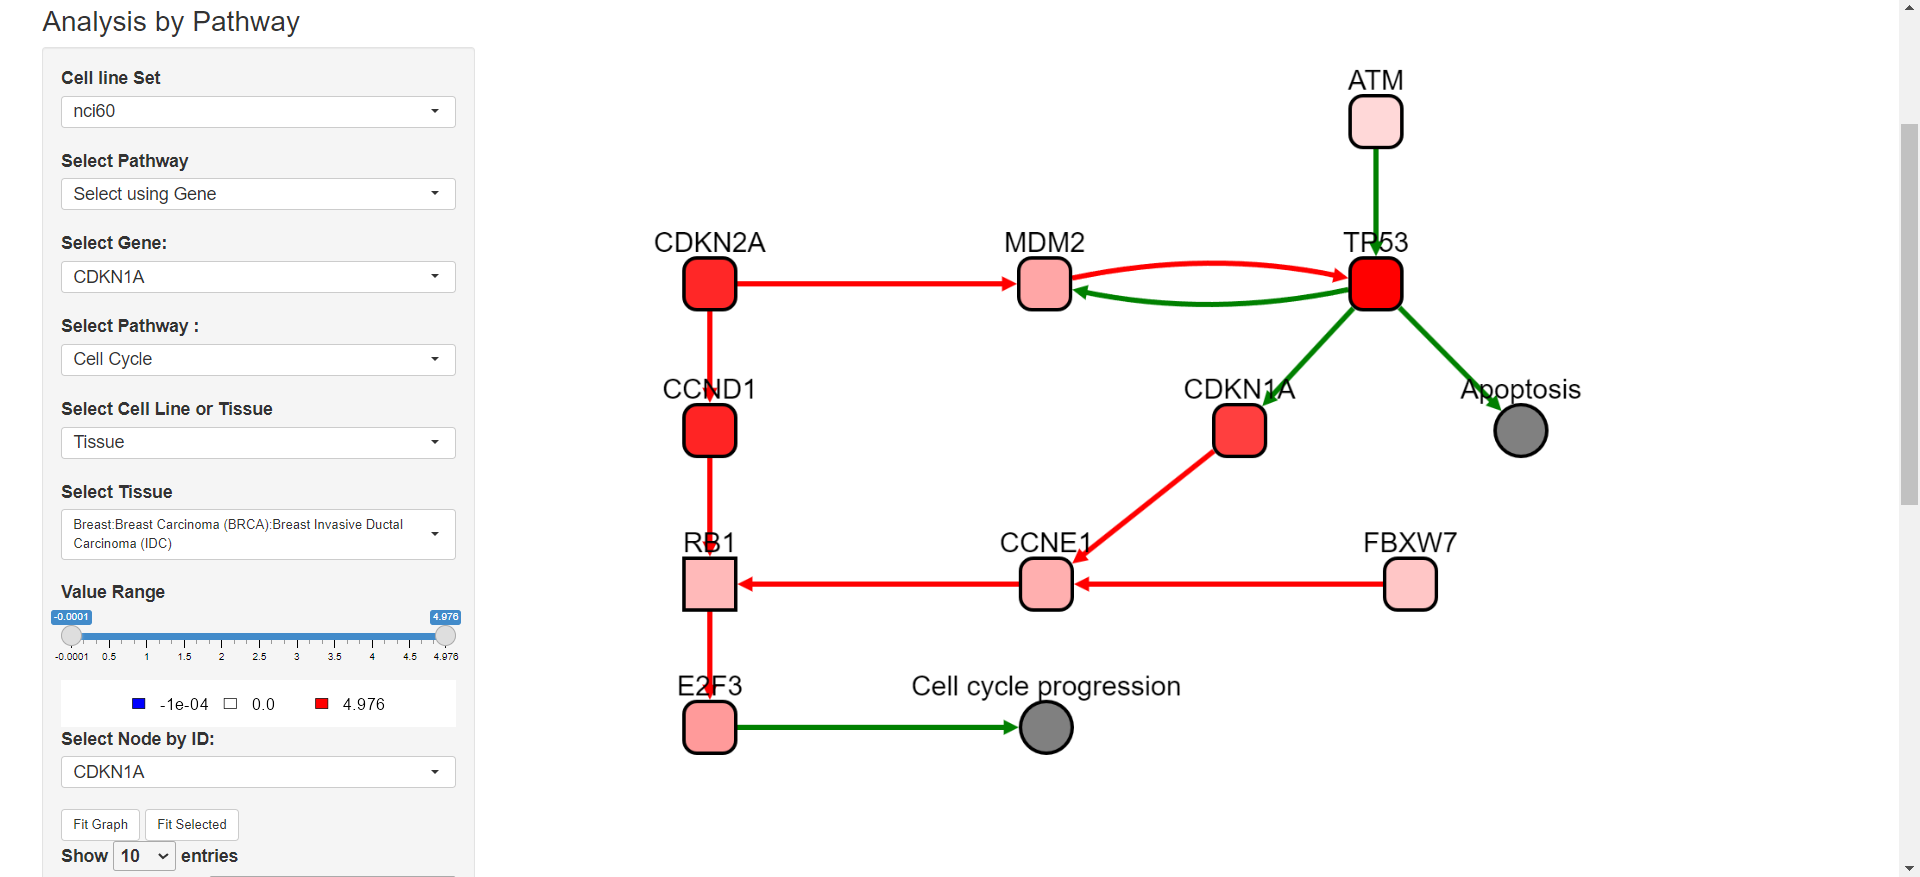
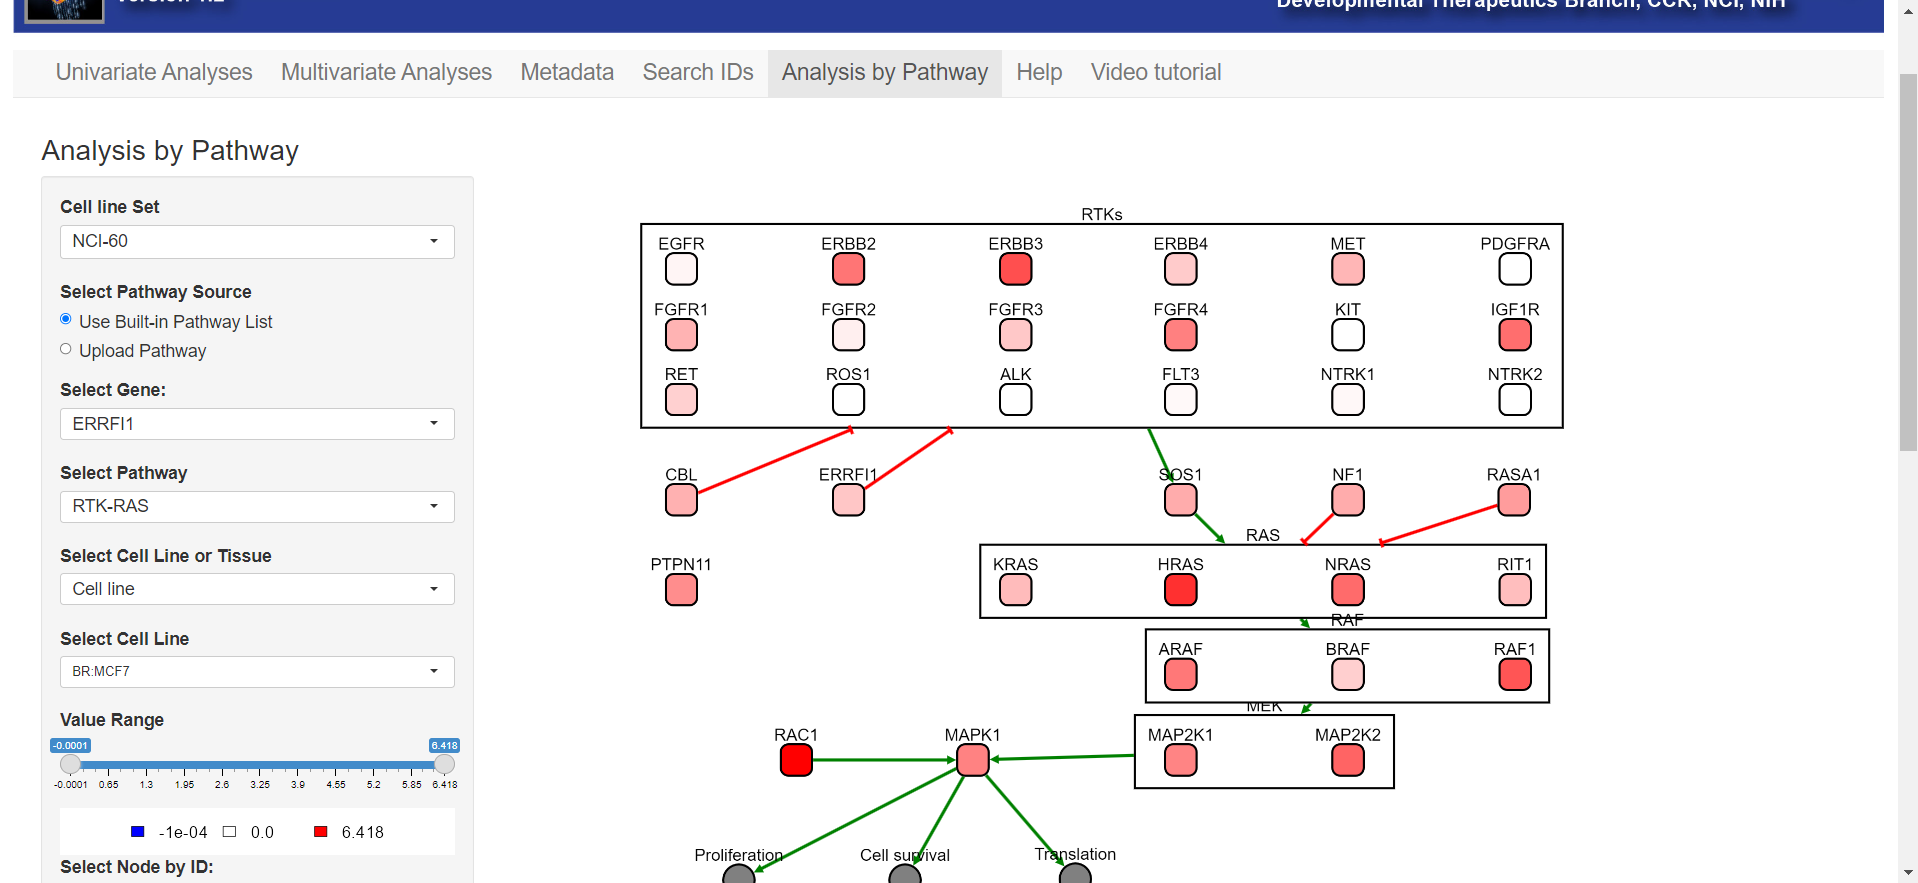
Added help section for Pathway Analysis

diff --git a/basicStyle.js b/basicStyle.js
@@ -1,15 +1,20 @@
 [
   {"selector":"node", "css": {
     "border-width": "2px",
-    "width": "data(size)",
-    "height": "data(size)", 
     "content": "data(name)",
-    "background-color":"white",
+    "background-color":"grey",
     "border-color":"black"
+  }},
+  {"selector":"node[avgValues <= 0]", "css": {
+       "background-color": "mapData(avgValues, -10, 0, blue, white)"
+  }},
+  {"selector":"node[avgValues > 0]", "css": {
+       "background-color": "mapData(avgValues, 0, 10, white, red)"
   }},
   
   {"selector":"node[nodeType = 'FAMILY']","css":{
-    "shape":"rectangle"
+    "shape":"rectangle",
+    "background-color":"white"
   }
   },
   {"selector":"node[nodeType = 'GENE']","css":{
@@ -18,19 +23,15 @@
   },
   {"selector":"node[nodeType = 'COMPARTMENT']","css":{
     "shape":"barrel",
-    "border-width":"4px" 
+    "border-width":"4px",
+    "background-color":"white" 
   }
   },
   {"selector":"node[nodeType = 'COMPLEX']","css":{
-    "shape":"cut-rectangle"
+    "shape":"cut-rectangle",
+    "background-color":"white"
   }},
-
-  {"selector":"node[avgValues <= 0]", "css": {
-       "background-color": "mapData(avgValues, -10, 0, blue, white)"
-  }},
-  {"selector":"node[avgValues > 0]", "css": {
-       "background-color": "mapData(avgValues, 0, 10, white, red)"
-  }},
+  
   
   {"selector": "node:selected", "css": {
        "overlay-opacity": 0.6,

diff --git a/www/files/guide.md b/www/files/guide.md
@@ -18,6 +18,7 @@ output: html_document
   - [Partial correlations](#partialcorr)
   - [Exploratory workflow](#workflow)
 - [Analysis by Pathway](#pathways)
+  - [Pathway Input](#inputsTopathway)
 -	[Metadata](#metadata)
 - [Search IDs](#search)
       - [Drug IDs](#drugid)
@@ -205,11 +206,15 @@ Mutilple data analysis workflows may be used dependent of the question being ask
 <h2 id="pathways">Analysis By Pathway</h2>
 This module is designed to visualize the genetic pathways on the profiling data. Currently, it is a demo and has 10 TCGA pathways. All the inputs are on the sidebar panel and the pathway will be visualized on the main panel on the right side.
 
+![Screenshot of CellMinerCDB Application](files/pathway_network1.jpeg)
+
+**Figure**: Shows a sample pathway Analysis of RTK-RAS pathway on a cell line.
+
 <h4 id="inputsTopathway">Input Data</h4>
 1. **CellLineSet** selects the data source. The user can choose NCI60, CCLE, GDSC, CTRP, or NCI/DTP SCLC (see Data Sources for more details).
-2. **Select Pathway** offers two options for selecting a pathway: using a gene or uploading a pathway.
+2. **Select Pathway Source** offers two options for selecting a pathway: Use a Built in pathway list  or uploading a pathway.
    - Using **Upload Pathway**, you can visualize any pathway drawn on pathwaymapper.org. An example file can be found in the project repository. Upload the pathway and select the cell line or tissue.
-   - Using **Select using Gene**, you can choose from a list of genes available in any of the pathways in the list.
+   - Using **Use Built-in Pathway List**, you can choose from a list of genes available from any of the pathways in the list.
 3. **Select Gene** provides a list of genes available in at least one of the pathways.
 4. **Select Pathway** shows the list of pathways that include the selected gene or have the name of the uploaded pathway.
 5. **Select Cell Line or Tissue** offers two options for selecting cell lines or tissues to visualize the pathway:
@@ -238,7 +243,7 @@ The **Main Panel** displays the network with the following properties:
     - *Gene* is represented by a *Rounded Rectangle*
     - *Compartment* is represented by a *Barrel*
     - *Complex* is represented by a *Cut Rectangle*
-
+    
 
 
 <h2 id="metadata">Metadata</h2>
